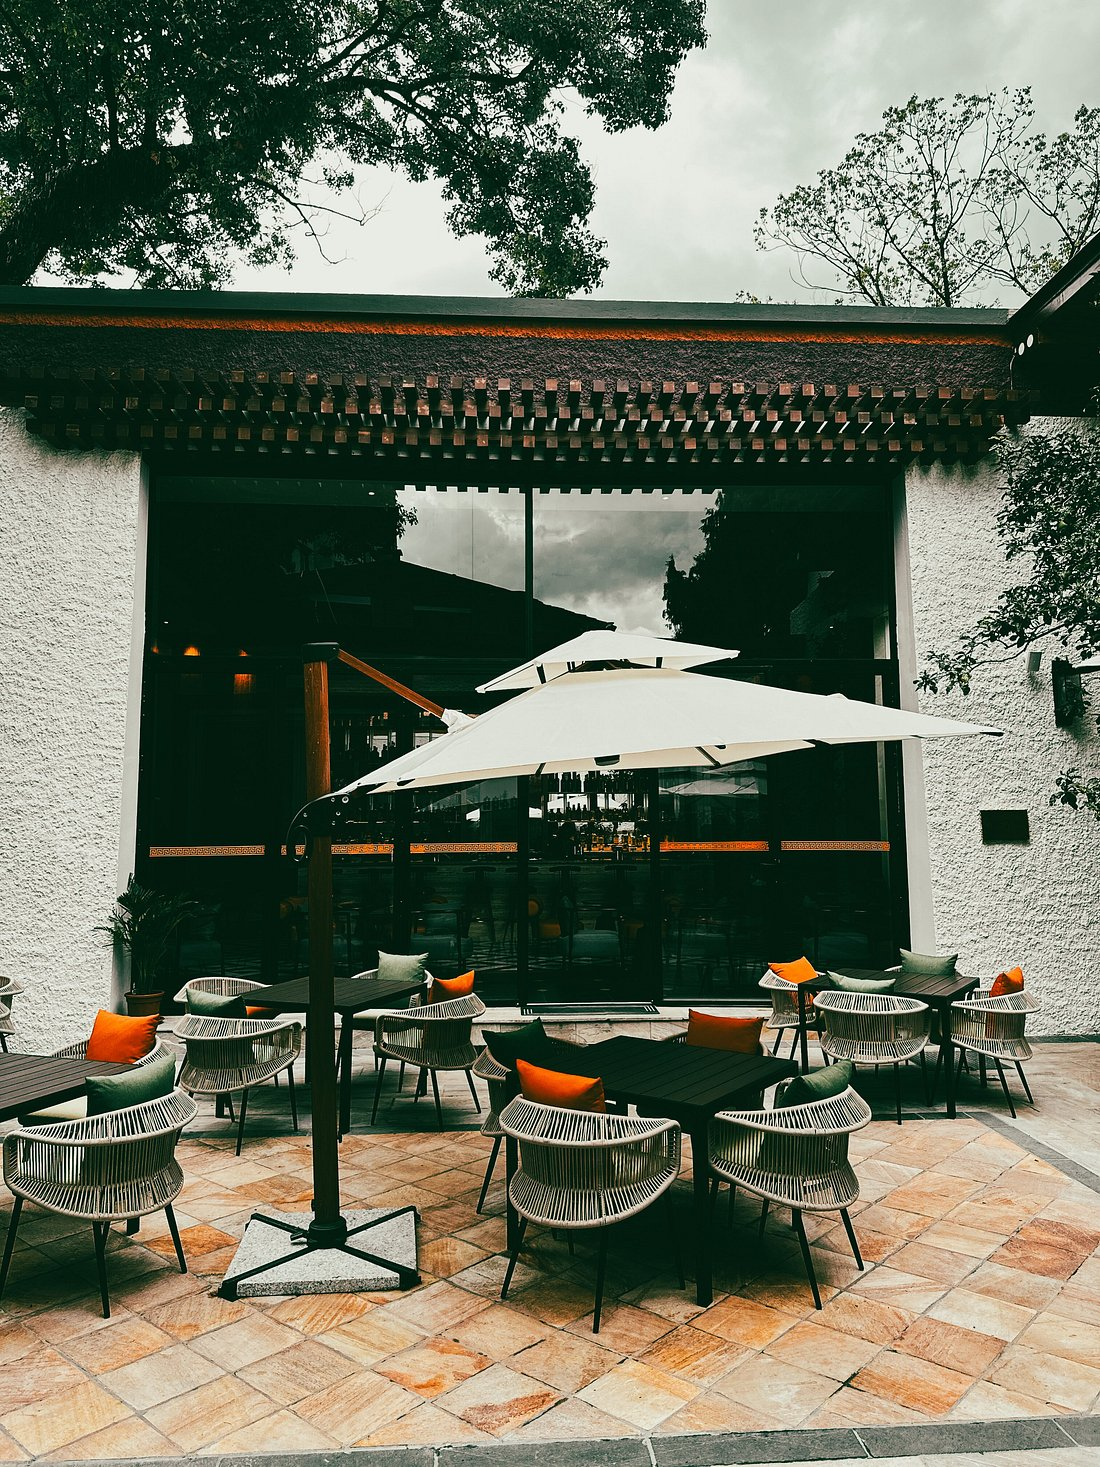
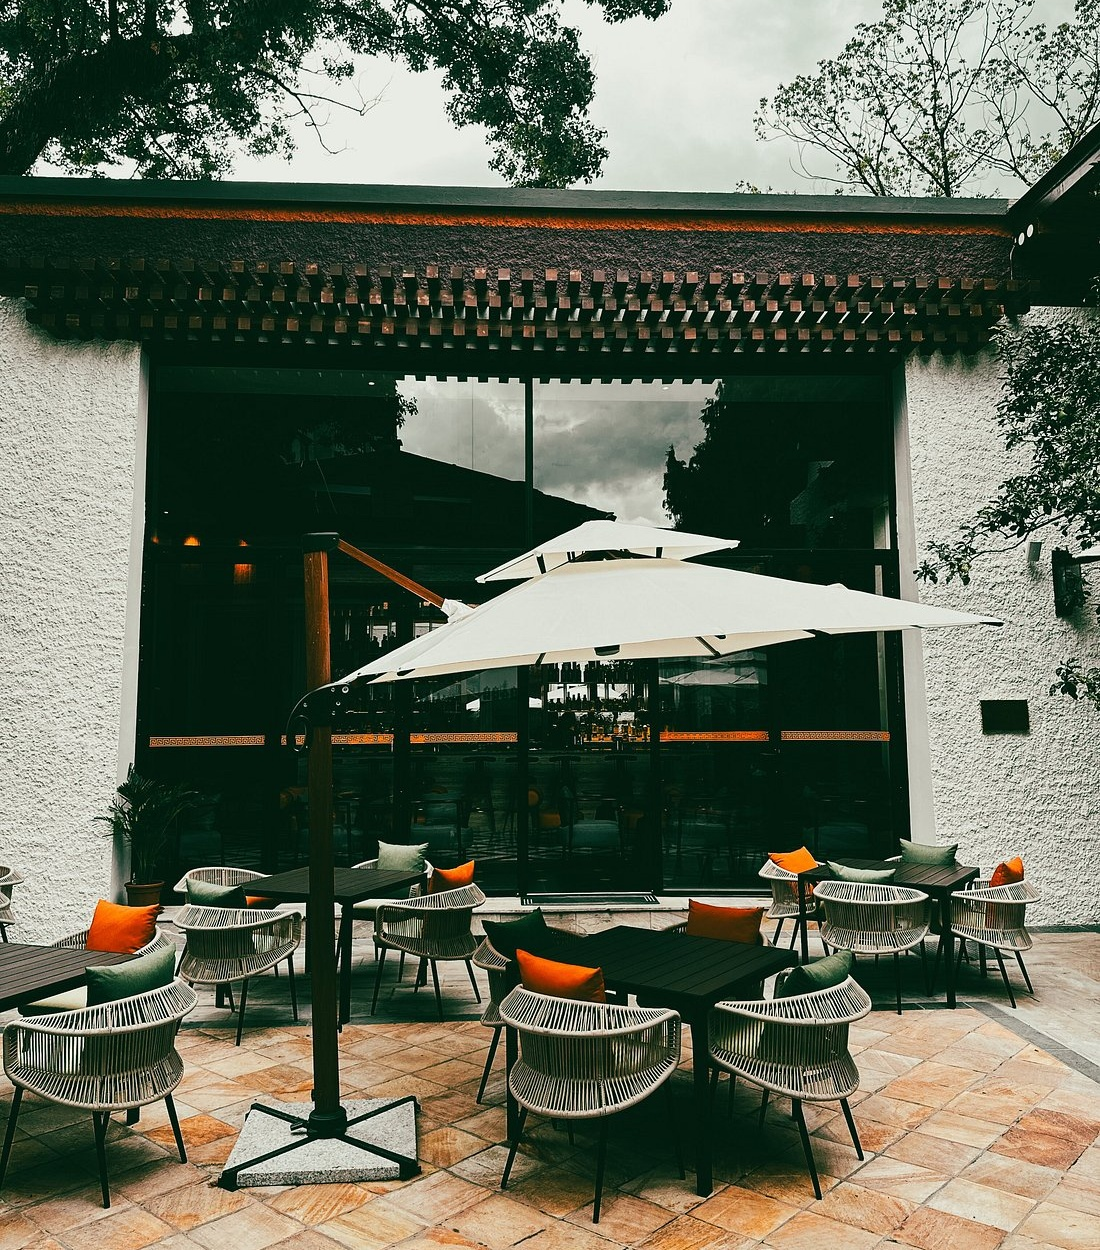
fix(courtyard): frame outdoor image down to ground tiles and umbrella stand

diff --git a/client/src/pages/LandingPage.jsx b/client/src/pages/LandingPage.jsx
@@ -472,7 +472,7 @@ export default function LandingPage({ setActivePage }) {
         </div>
 
         {/* ROW 2: THE COURTYARD (TEXT LEFT, OUTDOOR PHOTO RIGHT) */}
-        <div className="grid grid-cols-1 lg:grid-cols-2 min-h-[460px] sm:min-h-[540px] lg:min-h-[620px] bg-black">
+        <div className="grid grid-cols-1 lg:grid-cols-2 min-h-[460px] sm:min-h-[540px] lg:min-h-[640px] xl:min-h-[720px] bg-black">
           
           {/* Left: Pitch Black, Red Accent Line, Giant Bold THE COURTYARD */}
           <motion.div
@@ -489,11 +489,11 @@ export default function LandingPage({ setActivePage }) {
           </motion.div>
 
           {/* Right: Full-bleed Outdoor Courtyard Photo */}
-          <div className="order-1 lg:order-2 relative w-full h-[380px] sm:h-[480px] lg:h-full min-h-[380px] sm:min-h-[480px] overflow-hidden select-none bg-black">
+          <div className="order-1 lg:order-2 relative w-full h-[400px] sm:h-[500px] lg:h-full min-h-[400px] sm:min-h-[500px] overflow-hidden select-none bg-black">
             <img
               src="/outdoor.jpg"
               alt="The Outdoor Courtyard at Banmanche"
-              className="w-full h-full object-cover"
+              className="w-full h-full object-cover object-bottom"
             />
           </div>
 
